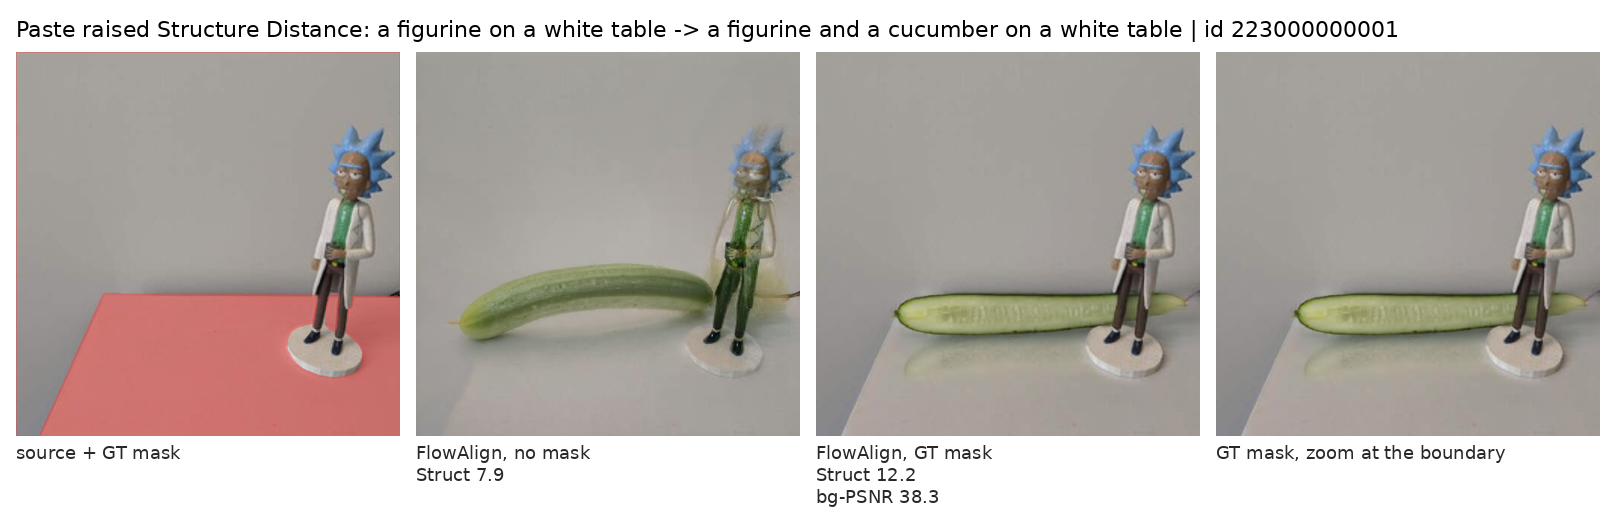
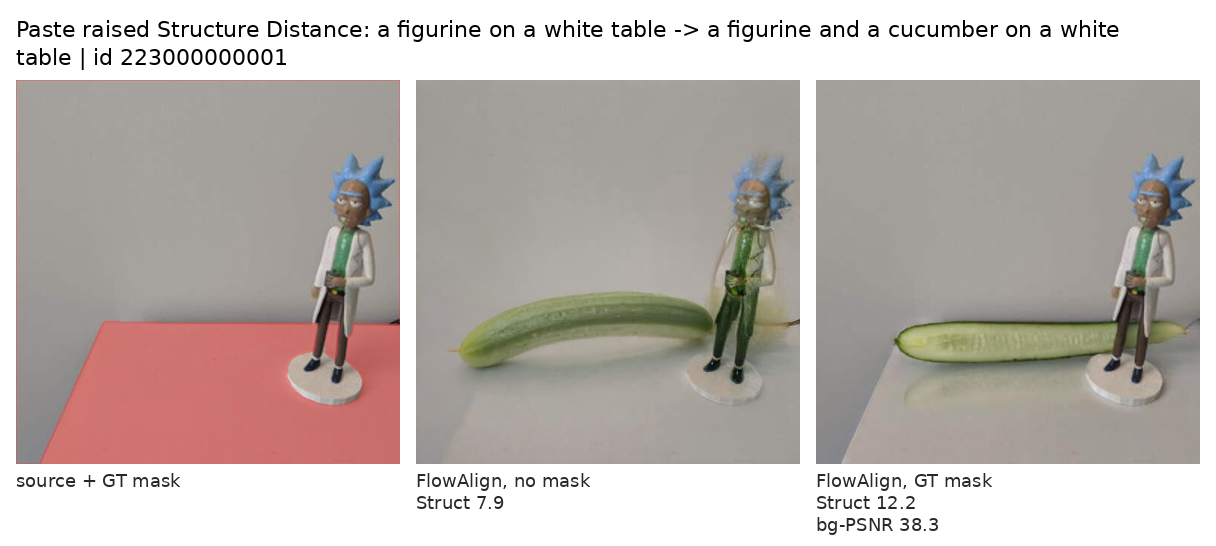
Apply the interpretation review: corrected rescheck_compare.py, runner docstrings, README scope and license wording, figure 2 without the duplicate panel, second audit record

Changed region(s): [[0.0, 0.0309, 1.0, 0.9884]]

diff --git a/runner/rescheck_compare.py b/runner/rescheck_compare.py
@@ -1,18 +1,26 @@
-"""FlowAlign 1024² (20장) vs 512² (같은 20장, 151장 실행에서 필터) 비교."""
-import os, json, numpy as np, pandas as pd
+"""FlowAlign 확인 실험 비교: 같은 이미지 집합에서 여러 실행의 지표 평균을 나란히 놓는다.
+사용: rescheck_compare.py <base_run> <other_run> [<other_run> ...]
+base_run 의 file_id 집합으로 다른 실행을 필터한다(151장 실행에서 20장 골라내기 등)."""
+import os, sys, numpy as np, pandas as pd
 R = os.path.expanduser("~/workspace/pie-bench/results")
 METRICS = ["structure_distance", "psnr_unedit_part", "lpips_unedit_part", "mse_unedit_part",
            "ssim_unedit_part", "clip_similarity_target_image", "clip_similarity_target_image_edit_part"]
 SHORT = ["Struct", "PSNR", "LPIPS", "MSE", "SSIM", "CLIPw", "CLIPe"]
+PAPER = [33.49, 24.06, 68.91, 54.29, 86.33, 25.64, 22.40]
+
+
 def load(name):
     df = pd.read_csv(os.path.join(R, name + ".csv")); df["file_id"] = df["file_id"].astype(str).str.zfill(12)
     tag = [c.split("|")[0] for c in df.columns if "|" in c][0]
     out = df[["file_id"]].copy()
     for k in METRICS: out[k] = pd.to_numeric(df[tag + "|" + k], errors="coerce")
     return out.set_index("file_id")
-a = load("flowalign1024_nomask"); b = load("flowalign_nomask").loc[a.index]
-print("n =", len(a))
-print("%-10s %8s %8s %8s" % ("metric", "1024", "512", "paper"))
-paper = dict(zip(SHORT, [33.49, 24.06, 68.91, 54.29, 86.33, 25.64, 22.40]))
+
+
+names = sys.argv[1:]
+base = load(names[0]); ids = base.index
+runs = {n: load(n).loc[ids] for n in names}
+print("n = %d images; background n = %d" % (len(ids), int(base["psnr_unedit_part"].notna().sum())))
+print("%-10s" % "metric" + "".join("%22s" % n[:21] for n in names) + "%10s" % "paper")
 for k, s in zip(METRICS, SHORT):
-    print("%-10s %8.2f %8.2f %8.2f" % (s, a[k].mean(), b[k].mean(), paper[s]))
+    print("%-10s" % s + "".join("%22.2f" % runs[n][k].mean() for n in names) + "%10.2f" % PAPER[SHORT.index(s)])

diff --git a/runner/make_figures.py b/runner/make_figures.py
@@ -74,8 +74,8 @@ it=mapping[fid]
 m=np.asarray(mask_img(fid))>127; ys,xs=np.nonzero(m); x0,x1,y0,y1=max(0,xs.min()-40),min(512,xs.max()+40),max(0,ys.min()-40),min(512,ys.max()+40)
 side=max(x1-x0,y1-y0); cx,cy=(x0+x1)//2,(y0+y1)//2; x0,y0=max(0,cx-side//2),max(0,cy-side//2); x1,y1=min(512,x0+side),min(512,y0+side)
 crop=lambda im: im.crop((x0,y0,x1,y1))
-fig=panel([overlay(src_img(fid),mask_img(fid)), edit_img(nm,fid), edit_img(gm,fid), crop(edit_img(gm,fid))],
-          ["source + GT mask","%s, no mask  Struct %.1f"%(meth,ra["structure_distance"]),"%s, GT mask  Struct %.1f  bg-PSNR %.1f"%(meth,rb["structure_distance"],rb["psnr_unedit_part"]),"GT mask, zoom at the boundary"],
+fig=panel([overlay(src_img(fid),mask_img(fid)), edit_img(nm,fid), edit_img(gm,fid)],
+          ["source + GT mask","%s, no mask  Struct %.1f"%(meth,ra["structure_distance"]),"%s, GT mask  Struct %.1f  bg-PSNR %.1f"%(meth,rb["structure_distance"],rb["psnr_unedit_part"])],
           "Paste raised Structure Distance: %s -> %s  |  id %s"%(it["original_prompt"].replace("[","").replace("]",""), it["editing_prompt"].replace("[","").replace("]",""), fid)[:220])
 fig.save(os.path.join(O,"fig2-seam.png")); print("fig2", meth, fid, "dStruct %+.2f area %.2f"%(dS,ar))
 

diff --git a/runner/run_flowalign.py b/runner/run_flowalign.py
@@ -6,6 +6,7 @@ FlowAlign 의 운반 변수 xt 는 zsrc 에서 출발해 편집된 깨끗한 lat
 붙여 넣는 "원본"은 매 step 같은 zsrc 다. 마지막 step 에서 마스크 밖은 VAE 인코딩 원본 그 자체다.
 하이퍼파라미터는 run_edit.py 기본값: NFE 33, cfg 13.5, n_start 0, seed 123. 해상도는 PIE-Bench 에 맞춰 512 (기본값 1024 대신).
 원 저장소의 encode 는 latent_dist.sample() 이지만 다른 조건과 같이 mode() 를 쓴다 (원본 latent 를 확정적으로 만들기 위함).
+그 외 편차: 이미지별 재시드, 저장 변환(--save_norm clamp 는 고정 범위, minmax 는 상류 save_image(normalize=True) 의 정책을 runner 가 직접 구현한 것이며 바이트 동일성은 시험하지 않음).
 백본은 다른 조건과 같은 SD3.5-medium (논문 Table 1 의 FlowAlign-SD3.5 행에 해당).
 """
 import argparse, os, sys, time, traceback, json

diff --git a/runner/run_dnaedit.py b/runner/run_dnaedit.py
@@ -6,6 +6,7 @@ ref 는 그 step 이 끝나는 노이즈 수준에 대응하는 "기록된 inver
 마지막 step 에서는 VAE 인코딩 원본 x_src 다. DirectEdit/FTEdit 조건과 같은 정의다.
 하이퍼파라미터는 configs/DNAEdit_SD3_exp.yaml: T 40, T_start 13, src_cfg 1, tar_cfg 3.5, mvg 0.8, seed 0.
 공식 스크립트는 DNA-Bench 의 long_mapping_file.json(긴 프롬프트)을 쓰지만 여기서는 다른 조건과 같은 PIE-Bench 원 프롬프트를 쓴다.
+그 외 편차: 소스/타깃 CFG 플래그를 분리(상류는 타깃 CFG 로 설정된 플래그로 소스 배치를 결정), 이미지별 재시드, 백본 SD3.5-medium.
 백본은 다른 조건과 같은 SD3.5-medium (논문 Table 1 의 DNAEdit-SD3.5 행에 해당).
 """
 import argparse, os, sys, time, traceback, json

diff --git a/runner/run_flowedit.py b/runner/run_flowedit.py
@@ -1,6 +1,6 @@
 """FlowEdit (공식 fallenshock 저장소, SD3 경로) 배치 실행 + 선택적 GT 마스크 블렌딩.
 
-FlowEdit_utils.FlowEditSD3 를 복사하고 한 줄만 넣었다:
+FlowEdit_utils.FlowEditSD3 를 복사하고 블렌딩 한 줄을 넣었다. 그 외 편차: n_min>0 분기 제거(assert), CFG 4배치 고정, 이미지별 재시드, 백본 SD3.5-medium. 블렌딩 줄:
   zt_edit = zt_edit*mask + x_src*(1-mask)   # 매 step, ODE 갱신 직후
 FlowEdit 의 운반 변수 zt_edit 는 x_src + 누적 델타 (깨끗한 좌표) 이므로, 붙여 넣는 "원본"은 매 step 같은 x_src 다.
 마지막 step 에서 마스크 밖은 VAE 인코딩 원본 그 자체가 되어 DirectEdit/FTEdit 조건과 같은 정의다.

diff --git a/runner/vae_roundtrip.py b/runner/vae_roundtrip.py
@@ -1,6 +1,6 @@
 """VAE 인코딩-디코딩 왕복본을 만든다.
 
-마스크 밖이 원본 latent로 대체되면 배경 지표의 상한은 이 왕복 손실이 된다.
+마스크 밖이 원본 latent로 대체될 때 배경 지표를 놓고 볼 기준점이다. 상한은 아니다(감사 2026-09-24; 실측에서 FTEdit SSIM이 이 값을 넘었다).
 논문은 34.38 dB(700장)로 보고한다. 같은 부분집합에서 직접 재서 비교한다.
 출력 형식은 run_condition.py 와 같아 evaluate.py 로 그대로 채점된다.
 """

diff --git a/README.md b/README.md
@@ -5,18 +5,18 @@ Data and code behind two notes on gs3393.github.io:
 - *What "Background Preservation" Actually Measures in Image-Editing Benchmarks* — https://gs3393.github.io/notes/editing-benchmark-background-metric.html
 - *Give Every Method the Same Mask* — follow-up (link added when published)
 
-Five text-guided image-editing methods (FTEdit, FlowEdit, FlowAlign, DNAEdit, DirectEdit) on a 151-image subset of PIE-Bench with SD3.5-medium, under three mask conditions: no mask, the benchmark's ground-truth mask pasted back at every step, and pixel compositing. Plus a VAE round-trip "no-edit" reference and two FlowAlign checks (resolution; save-path normalization).
+Five text-guided image-editing methods (FTEdit, FlowEdit, FlowAlign, DNAEdit, DirectEdit) on a 151-image subset of PIE-Bench with SD3.5-medium, under three mask conditions: no mask, the benchmark's ground-truth mask pasted back at every step, and pixel compositing. Plus a VAE round-trip "no-edit" reference and two FlowAlign checks (resolution; output normalization).
 
 ## What is here
 
 | Path | Contents |
 |---|---|
-| `results/*.csv` | Per-image scores written by DirectEdit's unmodified `evaluation/evaluate.py`. Columns are `<condition>\|<metric>`; values are on the paper's reporting scale (Structure ×10³, LPIPS ×10³, MSE ×10⁴, SSIM ×10²). `nomask.csv`, `gtmask.csv`, `automask.csv` are DirectEdit's runs; `vaebound.csv` is the no-edit reference; `flowalign1024*_nomask.csv` and `flowalign_minmax*_nomask.csv` are the FlowAlign checks (`flowalign1024_nomask.csv` is the mis-scored first attempt, kept for the record). Background metrics are NaN for the 31 images whose mask covers the whole frame. |
-| `results/paired_stats.txt`, `results/summary_multi.txt` | Paired per-image bootstrap differences and tie-averaged rankings, as printed by the scripts. |
-| `runner/` | Everything that was run. `run_condition.py` (DirectEdit), `run_ftedit.py`, `run_flowedit.py`, `run_flowalign.py`, `run_dnaedit.py` each copy one upstream editing loop and add a mask-blending line; `maskutil.py` is the shared mask preprocessing (identical to DirectEdit's `prepare_mask`); `pixel_paste.py`, `vae_roundtrip.py`, `prepare_subset.py`, `prepare_masks.py`, `summarize_multi.py`, `paired_stats.py`, `rescheck_compare.py`, `make_figures.py`, and the shell scripts that sequenced the runs. |
-| `figures/` | The three example figures used in the follow-up note, generated by `runner/make_figures.py`. |
-| `subset/ids.txt` | The 151 PIE-Bench image ids. PIE-Bench itself is not redistributed. |
-| `audit/` | An adversarial audit of the first version of the measurement report (gpt-6-astra, read-only), its prompt, and the resulting action list. The audit found the first 1024² check mis-scored and several overstatements; the notes follow the corrected scope. The FlowAlign save-path section was added after the audit and was not re-audited. |
+| `results/*.csv` | Per-image scores written by DirectEdit's unmodified `evaluation/evaluate.py`. Columns are `<condition>\|<metric>`; values are on the paper's reporting scale (Structure ×10³, LPIPS ×10³, MSE ×10⁴, SSIM ×10²). `nomask.csv`, `gtmask.csv`, `automask.csv` are DirectEdit's runs; `vaebound.csv` is the no-edit reference; `flowalign1024ds_*.csv` and `flowalign_minmax*_nomask.csv` are the FlowAlign checks; `flowalign1024_nomask.csv` is a **mis-scored** first attempt (the evaluator cropped a quarter of a 1024² canvas), kept for the record. Background metrics are NaN for the 31 images whose mask covers the whole frame. |
+| `results/paired_stats.txt`, `results/summary_multi.txt`, `results/rescheck*.txt` | Paired per-image bootstrap differences, tie-averaged rankings, and the FlowAlign check comparisons, as printed by the scripts. |
+| `runner/` | The adapted runners and analysis scripts. `run_condition.py` drives DirectEdit's own loop (imported, not copied); `run_ftedit.py`, `run_flowedit.py`, `run_flowalign.py`, `run_dnaedit.py` each copy one upstream editing loop and add a mask-blending line, with the other departures from the official scripts stated in their docstrings; `maskutil.py` is the shared mask preprocessing (identical to DirectEdit's `prepare_mask`); `pixel_paste.py`, `vae_roundtrip.py`, `prepare_subset.py`, `prepare_masks.py`, `summarize_multi.py`, `paired_stats.py`, `rescheck_compare.py`, `make_figures.py`, and the shell scripts that sequenced the runs. This is the code that produced the published tables; it is not a one-command replay (paths are those of the original workstation, and PIE-Bench must be obtained separately). |
+| `figures/` | The three example figures used in the follow-up note, generated by `runner/make_figures.py`. They contain PIE-Bench source images, edited outputs and prompt text for three ids. |
+| `subset/ids.txt` | The 151 PIE-Bench image ids. The dataset itself is not included. |
+| `audit/` | Two adversarial reviews by a second model (gpt-6-astra, read-only): an integrity audit of the first version of the measurement report, and an interpretation-level review of the follow-up note, each with its prompt and the resulting action list. The first audit found the initial 1024² check mis-scored and several overstatements; the second found further overreach in figure narratives and the save-path section. Both sets of findings are applied in the published texts. Neither review is a validation of the final versions. |
 
 ## Reproducing
 
@@ -30,10 +30,10 @@ Pinned upstream commits (cloned unmodified; the runners import from them via `PY
 | FlowAlign — https://github.com/FlowAlign/FlowAlign | `a48125f` |
 | DNAEdit — https://github.com/xiechenxi99/DNAEdit_code | `436e5b4` |
 
-Environment: Python 3.10, torch 2.6.0+cu124, torchvision 0.21.0, diffusers 0.32.2, transformers 4.57.3 (pin it: `>=4.57.3` resolves to 5.x and breaks diffusers 0.32.2), `stabilityai/stable-diffusion-3.5-medium` snapshot `b940f670`, fp16, one RTX A6000 per run. Hyperparameters are each repository's documented defaults; every departure from the official scripts (resolution 512², VAE encode `mode()`, save path, CFG-flag handling in DNAEdit, per-image reseeding in three runners) is listed in the measurement report and in the runner docstrings.
+Environment: Python 3.10, torch 2.6.0+cu124, torchvision 0.21.0, diffusers 0.32.2, transformers 4.57.3 (pin it: `>=4.57.3` resolves to 5.x and breaks diffusers 0.32.2), `stabilityai/stable-diffusion-3.5-medium` snapshot `b940f670`, fp16, one RTX A6000 per run. Hyperparameters are each repository's documented defaults. Departures from the official scripts — 512² resolution, VAE encode `mode()`, fixed-range output conversion (FlowAlign's script uses per-image min/max), separate source/target CFG flags in the DNAEdit runner, per-image reseeding in three runners, and the FTEdit controller patch — are listed in the measurement report and in the runner docstrings. The `--save_norm minmax` option of `run_flowalign.py` implements the normalization policy FlowAlign's script selects; byte-for-byte equivalence with torchvision's `save_image(normalize=True)` was not tested.
 
-Sequence: `prepare_subset.py` → `prepare_masks.py` → `run_baselines_gpu{0,1}.sh` (and `run_all.sh` for DirectEdit) → `finish_baselines.sh` (pixel paste, evaluation, summary) → `paired_stats.py`. Get PIE-Bench from https://github.com/cure-lab/PnPInversion and place it as `PIE-bench/` first.
+Sequence: `prepare_subset.py` → `prepare_masks.py` → `run_baselines_gpu{0,1}.sh` (and `run_all.sh` for DirectEdit) → `finish_baselines.sh` (pixel paste, evaluation, summary) → `paired_stats.py`; FlowAlign checks: `flowalign_checks2.sh`, `flowalign_checks3.sh`. Get PIE-Bench from https://github.com/cure-lab/PnPInversion and place it as `PIE-bench/` first.
 
 ## Licenses and attribution
 
-Scripts in `runner/` are MIT (see `LICENSE`) except where they adapt upstream code: `run_ftedit.py` and `run_dnaedit.py` contain editing loops copied from FTEdit and DNAEdit_code, `run_flowedit.py` from FlowEdit, `run_flowalign.py` from FlowAlign, and `run_condition.py`/`vae_roundtrip.py` import DirectEdit. Those portions remain under their upstream licenses (DirectEdit: MIT; FlowEdit and FlowAlign: see their LICENSE files; FTEdit and DNAEdit_code had no license file at the pinned commits — reproduced here for research reproducibility with attribution; contact the maintainer if this is a problem). Result CSVs are derived from PIE-Bench (PnPInversion) annotations; they contain scores only, no images or prompts.
+The MIT license in `LICENSE` covers this repository's original contributions (analysis scripts, figures, result files) and does not cover third-party portions. `run_ftedit.py` and `run_dnaedit.py` contain editing loops copied from FTEdit and DNAEdit_code; `run_flowedit.py` from FlowEdit; `run_flowalign.py` from FlowAlign; `run_condition.py` and `vae_roundtrip.py` import DirectEdit (MIT). FlowEdit and FlowAlign are governed by the licenses in their repositories. No license file was found for FTEdit or DNAEdit_code at the pinned commits; those copied portions are reproduced here with attribution for research reproducibility, and this README does not establish permission to reuse them — contact the maintainer if this is a problem. Result CSVs are derived from PIE-Bench (PnPInversion) annotations and contain scores only; the figures contain images and prompts for three PIE-Bench items.

diff --git a/audit/run02-note-interpretation/response.md b/audit/run02-note-interpretation/response.md
@@ -1,0 +1,30 @@
+# Reviewer response — run02, gpt-6-astra (xhigh), threadId 01a0e572-e976-7631-87fd-4c503422a14d
+
+Verdict: publishable after MUST FIXes; SHOULD FIXes strongly recommended. Central result (background-spread compression, ranking sensitivity) supported and consistent with the first note. Not publishable as-is: save-path prose asserts pixel identity / CLIP invariance the data contradict; figure narratives assert mechanisms the comparisons do not isolate; compression summary misidentifies the least-compressed metrics; public repo has a stale analysis script.
+
+## MUST FIX
+1. "shifts every pixel while leaving the edit itself untouched" / "CLIP scores do not move, because the edit did not" / "pixel-for-pixel the same" — saved pixels differ inside the edit region too; mean CLIP-whole −0.060, CLIP-edit −0.087, per-image −2.78..+3.27. State: generation unchanged, saved pixels changed; give the CLIP means.
+2. "account for most of the gap" — no defined aggregate gap across units (LPIPS ~34%, CLIP-whole ~6%, Structure overshoots). State sensitivity to saving in my runs; paper's path unverified.
+3. Figure 1: the two panels are separate generation runs with/without per-step blending, not one edit clipped by a mask; masked panel keeps substantial cloud and restores the toy's legs/shadow; CLIP-edit already excludes out-of-mask pixels in both conditions, so out-of-mask cloud removal cannot directly explain the drop. Describe, don't explain.
+4. Figure 2: unmasked run also distorts the figurine; masked run changes the cucumber's appearance (lengthwise section) with a straight edge near the boundary and a visible reflection; not "same cucumber minus shadow". Describe, don't explain.
+5. "two columns that compress least are the non-background ones" — three non-background columns; spread reductions CLIP-edit 3.7%, CLIP-whole 18.9%, Structure 41.7%; Structure is not among the two least compressed; "largest differences" across unlike scales has no meaning.
+6. Definitions: Structure Distance = MSE between whole-image DINO self-similarity matrices; CLIP-edit = target prompt vs edited image with out-of-annotation pixels zeroed (not a crop) — can see in-mask boundary artifacts, lacks the true surround; background metrics zero the edit region in both images and keep the whole-frame denominator. "CLIP-edit does not see the seam" too categorical.
+14. Public repo: `rescheck_compare.py` is the obsolete version (hardcodes the mis-scored 1024 run) so `flowalign_checks{2,3}.sh` cannot regenerate rescheck2/3; docstrings stale (FlowEdit "one line", vae_roundtrip "bound"); README "Everything that was run" overclaims. Publish the corrected script, fix docstrings, describe what is reproducible.
+
+## SHOULD FIX
+7. Ranking prose: pixel compositing changes the images (Structure, CLIP-whole too), not just the background columns; two "fourth" results come from different comparisons.
+8. Alignment: only PSNR is in dB; FlowEdit comparison has the SAME direction (higher PSNR, lower CLIP), not "the other way round"; FlowAlign PSNR interval includes zero; the FLUX ablation illustrates the design, does not estimate these differences.
+9. "four of five rows landed near the paper" — DNAEdit Structure +3.22/LPIPS +10.88/MSE +6.77, FlowEdit MSE +5.66; say agreement varied by method/metric.
+10. "unedited image wins outright at 0.55" — 0.55 is the 151-mean of the VAE reconstruction; per image not always lowest (611000000004: 18.55 vs masked FlowAlign 17.35).
+11. Opening "to learn anything about the algorithm" broader than the first note (a within-system ablation can inform); equal masks are necessary for between-method comparison, not sufficient for isolation.
+12. Pixel paste "floor" → constructed control; minima/maxima for background metrics only.
+13. "re-saved the same 151 edits" — the check re-ran generation with the same seeds and a different output conversion; runner's round() vs torchvision's add_(0.5) → byte equivalence untested; torchvision default is normalize=False, FlowAlign passes True.
+15. License text: MIT covers original contributions; no license found for FTEdit/DNAEdit portions — README does not establish permission; figures do contain images and prompt text.
+16. Report §5.1 "해상도는 원인이 아니다" / "표본 크기 효과" too strong: 20 images do not exclude resolution effects in the authors' setup; 20→151 changes composition, not only size; report also retains the unchanged-CLIP assertion.
+17. "a few tenths separate most pairs, 1.4 dB separates one" — four comparisons involving FlowEdit differ 1.14–1.43 dB; six pairs among the top four ≤0.29.
+
+## NIT
+18. Figure 2 "zoom" panel is a full-frame duplicate (forced mask border → full crop). Remove or crop manually.
+
+## Confirmed present (rounds A–C)
+five methods/six rows; FlowAlign-vs-FlowEdit confined to Structure; "six of seven" gone; sign-change values; rank attribution; ~3.5 GPU-h (label as excluding auxiliary checks/eval); Structure whole-image + compression acknowledged; shared spatial preprocessing vs identical intervention; exact restoration where processed mask = 0; reference path-specific, not a bound; scales, 120/151, exploratory intervals, means vs individuals; no alignment attribution; discard-background advice withdrawn; LPIPS ~1/3; resolution check 20 images; first mis-scoring disclosed; round-C ranking observation correct (DNAEdit 1.71, DirectEdit 2.57, FlowAlign 2.86, FlowEdit 3.71, FTEdit 4.14; fixed-range FlowAlign 1.43); figure numbers 21.1228→14.9896, 7.8978→12.1956 (PSNR 38.3284), 32.7005→17.6059; audit vs validation separated; public repo contents as advertised.

diff --git a/audit/run02-note-interpretation/prompt.md b/audit/run02-note-interpretation/prompt.md
@@ -1,0 +1,9 @@
+# Prompt sent to gpt-6-astra (xhigh, read-only, cwd = audit-251901459) — run02, interpretation-level review of NOTE2
+
+Role: hostile referee for a blog note about to be published; interpretation-level (overreach, wrong metric definitions, observation→cause slides, new overreach introduced by earlier fixes). Numbers already checked separately; re-check any doubted, but spend effort on meaning. Report findings with the exact sentence and required wording; do not rewrite.
+
+Target: claims/NOTE2-equalized-mask-table.md. Context: PRIOR-CRITIQUES.md (rounds A–C, verify each fix is present and created no new problem), the published first note (consistency), the audited measurement report (section 5.1 extended after audit), results/ (CSVs incl. FlowAlign save/resolution checks), runner/, src/ (upstream + paper text), figures/ (check captions and citing sentences against the images and CSV rows for ids 000000000130, 223000000001, 611000000004), PUBLIC-REPO-README.md (must not claim more than the note).
+
+Tests requested: (1) every "because/so/means/shows/explains/accounts for/produced/moves/cost" sentence — supported by an experiment varying only that factor? (2) metric definitions everywhere incl. captions; (3) FlowAlign section hypothesis/observation boundary in every sentence; recompute "third with min/max, first with fixed range"; (4) ranking prose — residual causal language; 0.43 as sensitivity not superiority; (5) alignment section — any attribution to the component; (6) figures 1–3 numbers and visual claims; (7) consistency with the first note; (8) "audited" vs "validated"; public repo description accuracy; (9) anything the prior rounds missed.
+
+Output: findings with MUST FIX / SHOULD FIX / NIT, quoted sentence, why, required wording; prior-round fixes confirmed present; one paragraph on publishability. A false "fine" is worse than a false alarm.

diff --git a/audit/run02-note-interpretation/meta.md b/audit/run02-note-interpretation/meta.md
@@ -1,0 +1,9 @@
+# Review trace — run02 (interpretation-level review of the second note)
+
+- date: 2026-09-28
+- backend: codex MCP (mcp__codex__codex), model gpt-6-astra, model_reasoning_effort xhigh, sandbox read-only
+- cwd:  (bundle refreshed with NOTE2, the current report, FlowAlign check CSVs, figures, public-repo README, PRIOR-CRITIQUES.md)
+- executor: Claude (Fable 5.1) — assembled the bundle and the prompt; did not participate in the judgment
+- subject: claims/NOTE2-equalized-mask-table.md (draft PR #22), after fidelity round A, external critique round B, and follow-up C
+- requested by the user ("2번": one more external pass before confirming the note)
+- prompt: recorded in the session transcript; response: response.md (appended when the call returns)

diff --git a/audit/run01-report-integrity/meta.md b/audit/run01-report-integrity/meta.md
@@ -1,0 +1,8 @@
+# Review trace — experiment-audit run01
+
+- date: 2026-09-24
+- backend: codex MCP (mcp__codex__codex), model gpt-6-astra, model_reasoning_effort xhigh, sandbox read-only
+- cwd:  (local bundle of claims/, results/, runner/, src/, logs/ copied from the remote workspace)
+- executor: Claude (Fable 5.1) — collected paths and wrote the prompt; did not participate in the judgment
+- prompt: see prompt.md ; response: see response.md (appended when the call returns)
+- subject: card 251901459 report + card 250790709 report + published note
